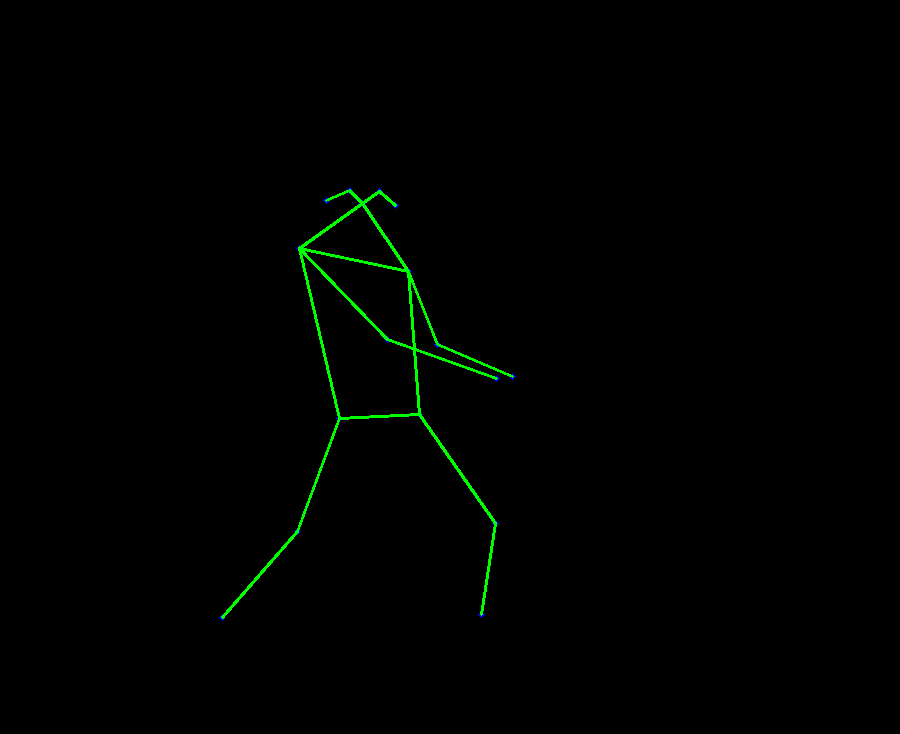
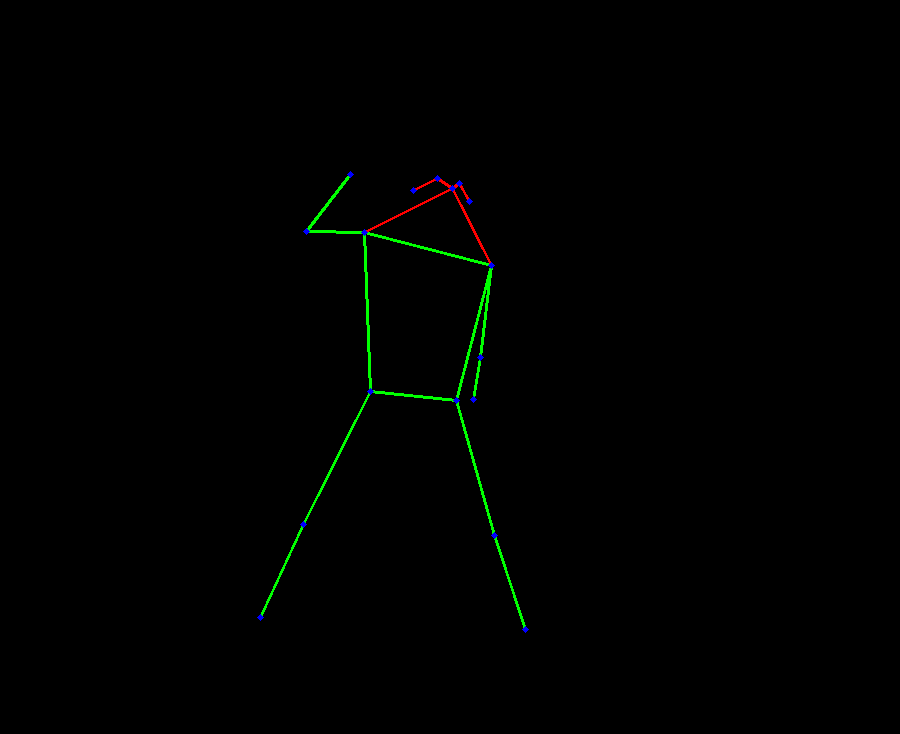
allow colors selection

diff --git a/pose_estimator/skeleton_creator.py b/pose_estimator/skeleton_creator.py
@@ -1,34 +1,43 @@
 import pandas as pd
-from pose_estimator.consts import BODYPARTS, BONES
+from pose_estimator.consts import BODYPARTS, BONES, COLORS
 import cv2
 
 
-def plot_bone(bg_img, xs, ys, bone):
+def plot_bone(bg_img, xs, ys, bone, selected_color):
     assert len(bone) == 2
     start_point = (xs.loc[bone[0]], ys.loc[bone[0]])
     end_point = (xs.loc[bone[1]], ys.loc[bone[1]])
-    cv2.line(bg_img, start_point, end_point, color=(0, 255, 0), thickness=2)
+    cv2.line(bg_img, start_point, end_point, color=selected_color, thickness=2)
 
 
-def plot_skeleton(bg_img, xs, ys):
+def plot_skeleton(bg_img, xs, ys, colors_to_use):
     xs, ys = xs.apply(round), ys.apply(round)
+    # plot bones
+    for bone in BONES:
+        plot_bone(bg_img, xs, ys, bone, selected_color=colors_to_use[bone])
+
     # plot nodes
     for center_coordinates in zip(xs, ys):
         cv2.circle(bg_img, center_coordinates, radius=1, color=(255, 0, 0), thickness=3)
 
-    for bone in BONES:
-        plot_bone(bg_img, xs, ys, list(bone))
-
     cv2.imwrite('test.png', bg_img)
 
 
-def generate_images(fixed_pose_df, mode='sticklight', background_image=None):
+def generate_images(fixed_pose_df, mode='sticklight', background_image=None, colors_dict=None):
+    # save copy of original image
+    orig_background_image = background_image.copy()
+
+    colors_to_use = COLORS
+    colors_to_use.update(colors_dict)
+
     final_images_list = []
 
     # load background_image
     height, width, channel = background_image.shape
 
     for i, v in fixed_pose_df.iterrows():
+        background_image = orig_background_image.copy()
+
         xs, ys, scores = v.apply(lambda x: x[1]), v.apply(lambda x: x[0]), v.apply(lambda x: x[2])
 
         # change ratios of the skeleton to fit image shape
@@ -38,13 +47,12 @@ def generate_images(fixed_pose_df, mode='sticklight', background_image=None):
         # TODO: filter high scores only
 
         # add skeleton
-        plot_skeleton(background_image, xs, ys)
+        plot_skeleton(background_image, xs, ys, colors_to_use)
 
         # TODO: add emoji head
 
         # add final image to list of final images
-        final_images_list.append([ax])
+        final_images_list.append(background_image)
 
-        # remove skeleton from ax
 
     return final_images_list

diff --git a/main.py b/main.py
@@ -12,21 +12,21 @@ if __name__ == '__main__':
     # load resources for testing; will get from server
     video_path = sys.argv[1]
     bg_img = sys.argv[2] if len(sys.argv) > 2 else None
-    
+
     # metadata extraction - width, height, fps, video length
     metadata = vp.get_metadata_for_video(video_path)
-    
+
     # set black image as background if no background is given
     if bg_img is None:
         bg_img = np.zeros((metadata['width'], metadata['height'], 3))
-    
+
     # load data from cache in cloud
     pose_df = cloud_manager.load_pose_df(video_path)
-    
+
     if pose_df is None:
         # video to images
         images_list = vp.video_to_images(video_path, save_to_disk=False)
-        
+
         # pose estimation
         pose_df = pose_estimation.detect_pose(images_list)
 
@@ -46,7 +46,13 @@ if __name__ == '__main__':
     fixed_pose_df = outliers_detector.fix_outliers(pose_df, anomaly_inds)
 
     # draw generated images
-    generated_images_list = skeleton_creator.generate_images(fixed_pose_df, mode='sticklight', background_image=bg_img)
+    generated_images_list = skeleton_creator.generate_images(fixed_pose_df, mode='sticklight', background_image=bg_img,
+                                                             colors_dict={('nose', 'left_eye'): (0, 0, 255),
+                                                                          ('nose', 'right_eye'): (0, 0, 255),
+                                                                          ('left_eye', 'left_ear'): (0, 0, 255),
+                                                                          ('right_eye', 'right_ear'): (0, 0, 255),
+                                                                          ('nose', 'left_shoulder'): (0, 0, 255),
+                                                                          ('nose', 'right_shoulder'): (0, 0, 255)})
 
     # create final video
     final_video_path = vp.images_to_video(generated_images_list, audio_source=video_path)

diff --git a/pose_estimator/consts.py b/pose_estimator/consts.py
@@ -21,6 +21,24 @@ BONES = [('nose', 'left_eye'),
          ('right_hip', 'right_knee'),
          ('right_knee', 'right_ankle')]
 
+COLORS = {('nose', 'left_eye'): (0, 255, 0),
+          ('nose', 'right_eye'): (0, 255, 0),
+          ('left_eye', 'left_ear'): (0, 255, 0),
+          ('right_eye', 'right_ear'): (0, 255, 0),
+          ('nose', 'left_shoulder'): (0, 255, 0),
+          ('nose', 'right_shoulder'): (0, 255, 0),
+          ('left_shoulder', 'left_elbow'): (0, 255, 0),
+          ('left_elbow', 'left_wrist'): (0, 255, 0),
+          ('right_shoulder', 'right_elbow'): (0, 255, 0),
+          ('right_elbow', 'right_wrist'): (0, 255, 0),
+          ('left_shoulder', 'right_shoulder'): (0, 255, 0),
+          ('left_shoulder', 'left_hip'): (0, 255, 0),
+          ('right_shoulder', 'right_hip'): (0, 255, 0),
+          ('left_hip', 'right_hip'): (0, 255, 0),
+          ('left_hip', 'left_knee'): (0, 255, 0),
+          ('left_knee', 'left_ankle'): (0, 255, 0),
+          ('right_hip', 'right_knee'): (0, 255, 0),
+          ('right_knee', 'right_ankle'): (0, 255, 0)}
 
 # Dictionary that maps from joint names to keypoint indices.
 BODYPART_TO_IND = {
